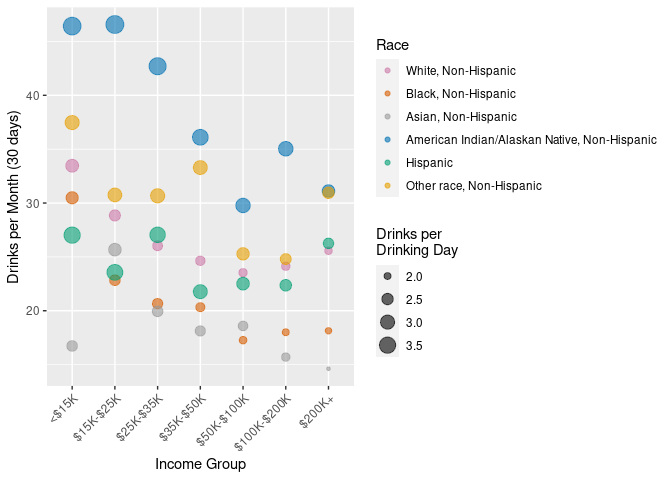
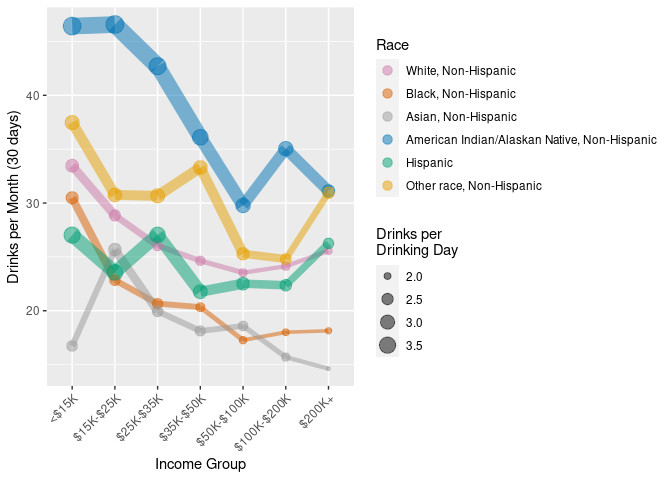
Added a new plot.

diff --git a/sql_examples.md b/sql_examples.md
@@ -729,7 +729,8 @@ drinkers <- tbl(con, "brfss2021") %>%
   summarize(across(c(DrinksPerDay, DrinksPerMonth), ~ mean(.x, na.rm = TRUE)),
             .groups = "drop") %>% 
   mutate(`Income Group` = 
-           factor(`Income Group`, levels = 1:7, labels = income.levels),
+           factor(`Income Group`, levels = 1:7, labels = income.levels, 
+                  ordered = TRUE),
          Race = 
            factor(Race, levels = 1:6, labels = race.levels))
 ```
@@ -738,10 +739,12 @@ drinkers <- tbl(con, "brfss2021") %>%
 
 
 ```r
-p <- ggplot(drinkers, aes(x = `Income Group`, y = DrinksPerMonth, color = Race)) + 
-  geom_point(aes(size = DrinksPerDay), alpha = 0.6) + 
+p <- ggplot(drinkers, aes(x = `Income Group`, y = DrinksPerMonth, 
+                          color = Race, group = Race)) + 
+  geom_line(aes(linewidth = DrinksPerDay), alpha = 0.5, show.legend = FALSE) + 
+  geom_point(aes(size = DrinksPerDay), alpha = 0.5) + 
   ylab("Drinks per Month (30 days)") + 
-  guides(color = guide_legend(title = "Race"),
+  guides(color = guide_legend(title = "Race", override.aes = list(size = 3)),
          size = guide_legend(title = "Drinks per \nDrinking Day")) + 
   scale_color_manual(values = cbPalette) + 
   theme(axis.text.x = element_text(angle = 45, vjust = 1, hjust = 1))
